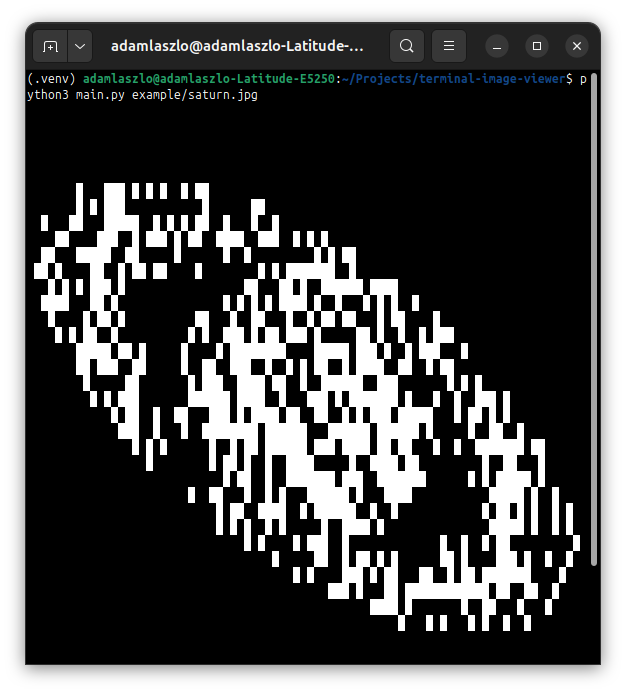
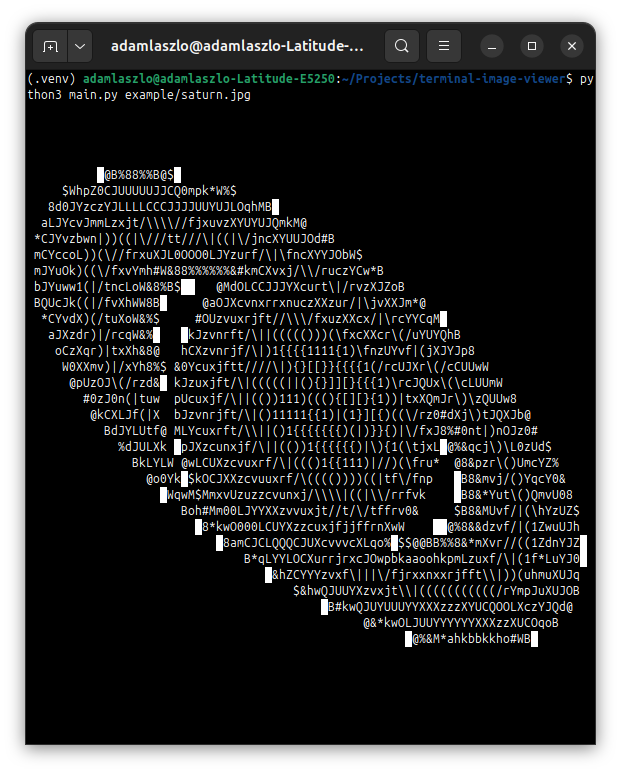
Add support for greyscale values

Changed region(s): [[0.0306, 0.0303, 0.9791, 0.9091], [0.0306, 0.9394, 0.9485, 0.9697]]

diff --git a/main.py b/main.py
@@ -2,12 +2,16 @@ import sys
 import numpy as np
 from PIL import Image, ImageOps
 
+value_to_character_map = '█$@B%8&WM#*oahkbdpqwmZO0QLCJUYXzcvunxrjft/\\|()1{}[]?-_+~<>i!lI;:,"^`\' '
+
 
 def image_to_text(image: np.ndarray) -> str:
     text = ''
     for i in range(image.shape[0]):
         for k in range(image.shape[1]):
-            text += "█" if image[i][k] > 0 else ' '
+            greyscale_value = image[i][k]
+            text += value_to_character_map[int(
+                greyscale_value * (len(value_to_character_map) / 255.0))-1]
         text += '\n'
     return text
 
@@ -23,7 +27,7 @@ def main() -> None:
         print('Please provide a valid image path.')
         return
 
-    image = image.convert('1')
+    image = image.convert('L')
     image = ImageOps.contain(image, (80, 80))
     image = image.resize((80, image.height // 2))
     image_array = np.asarray(image)
